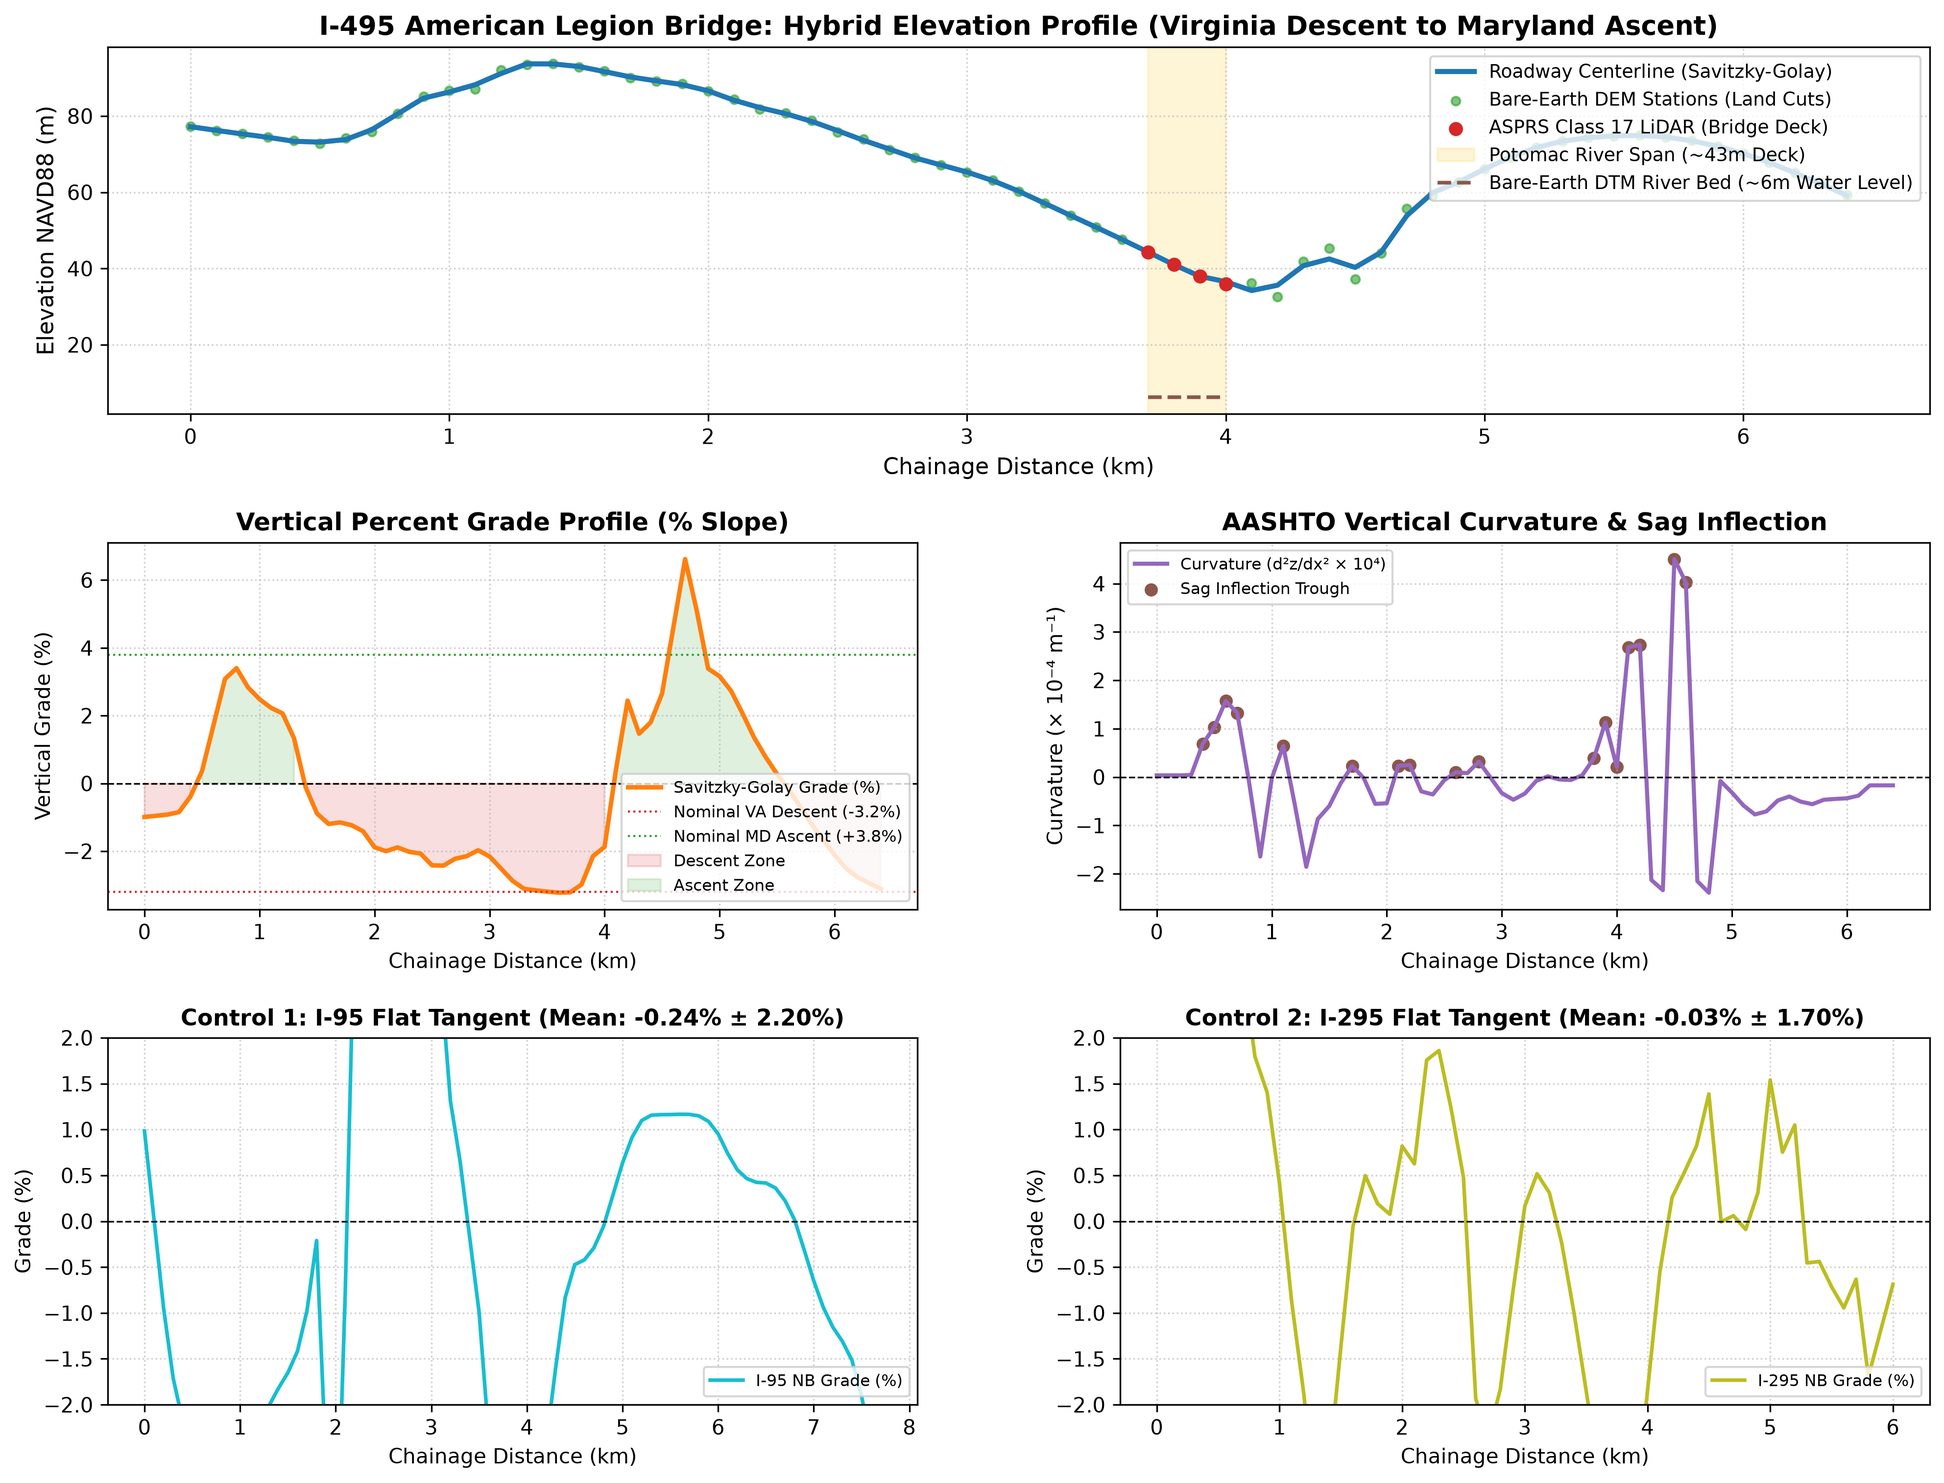
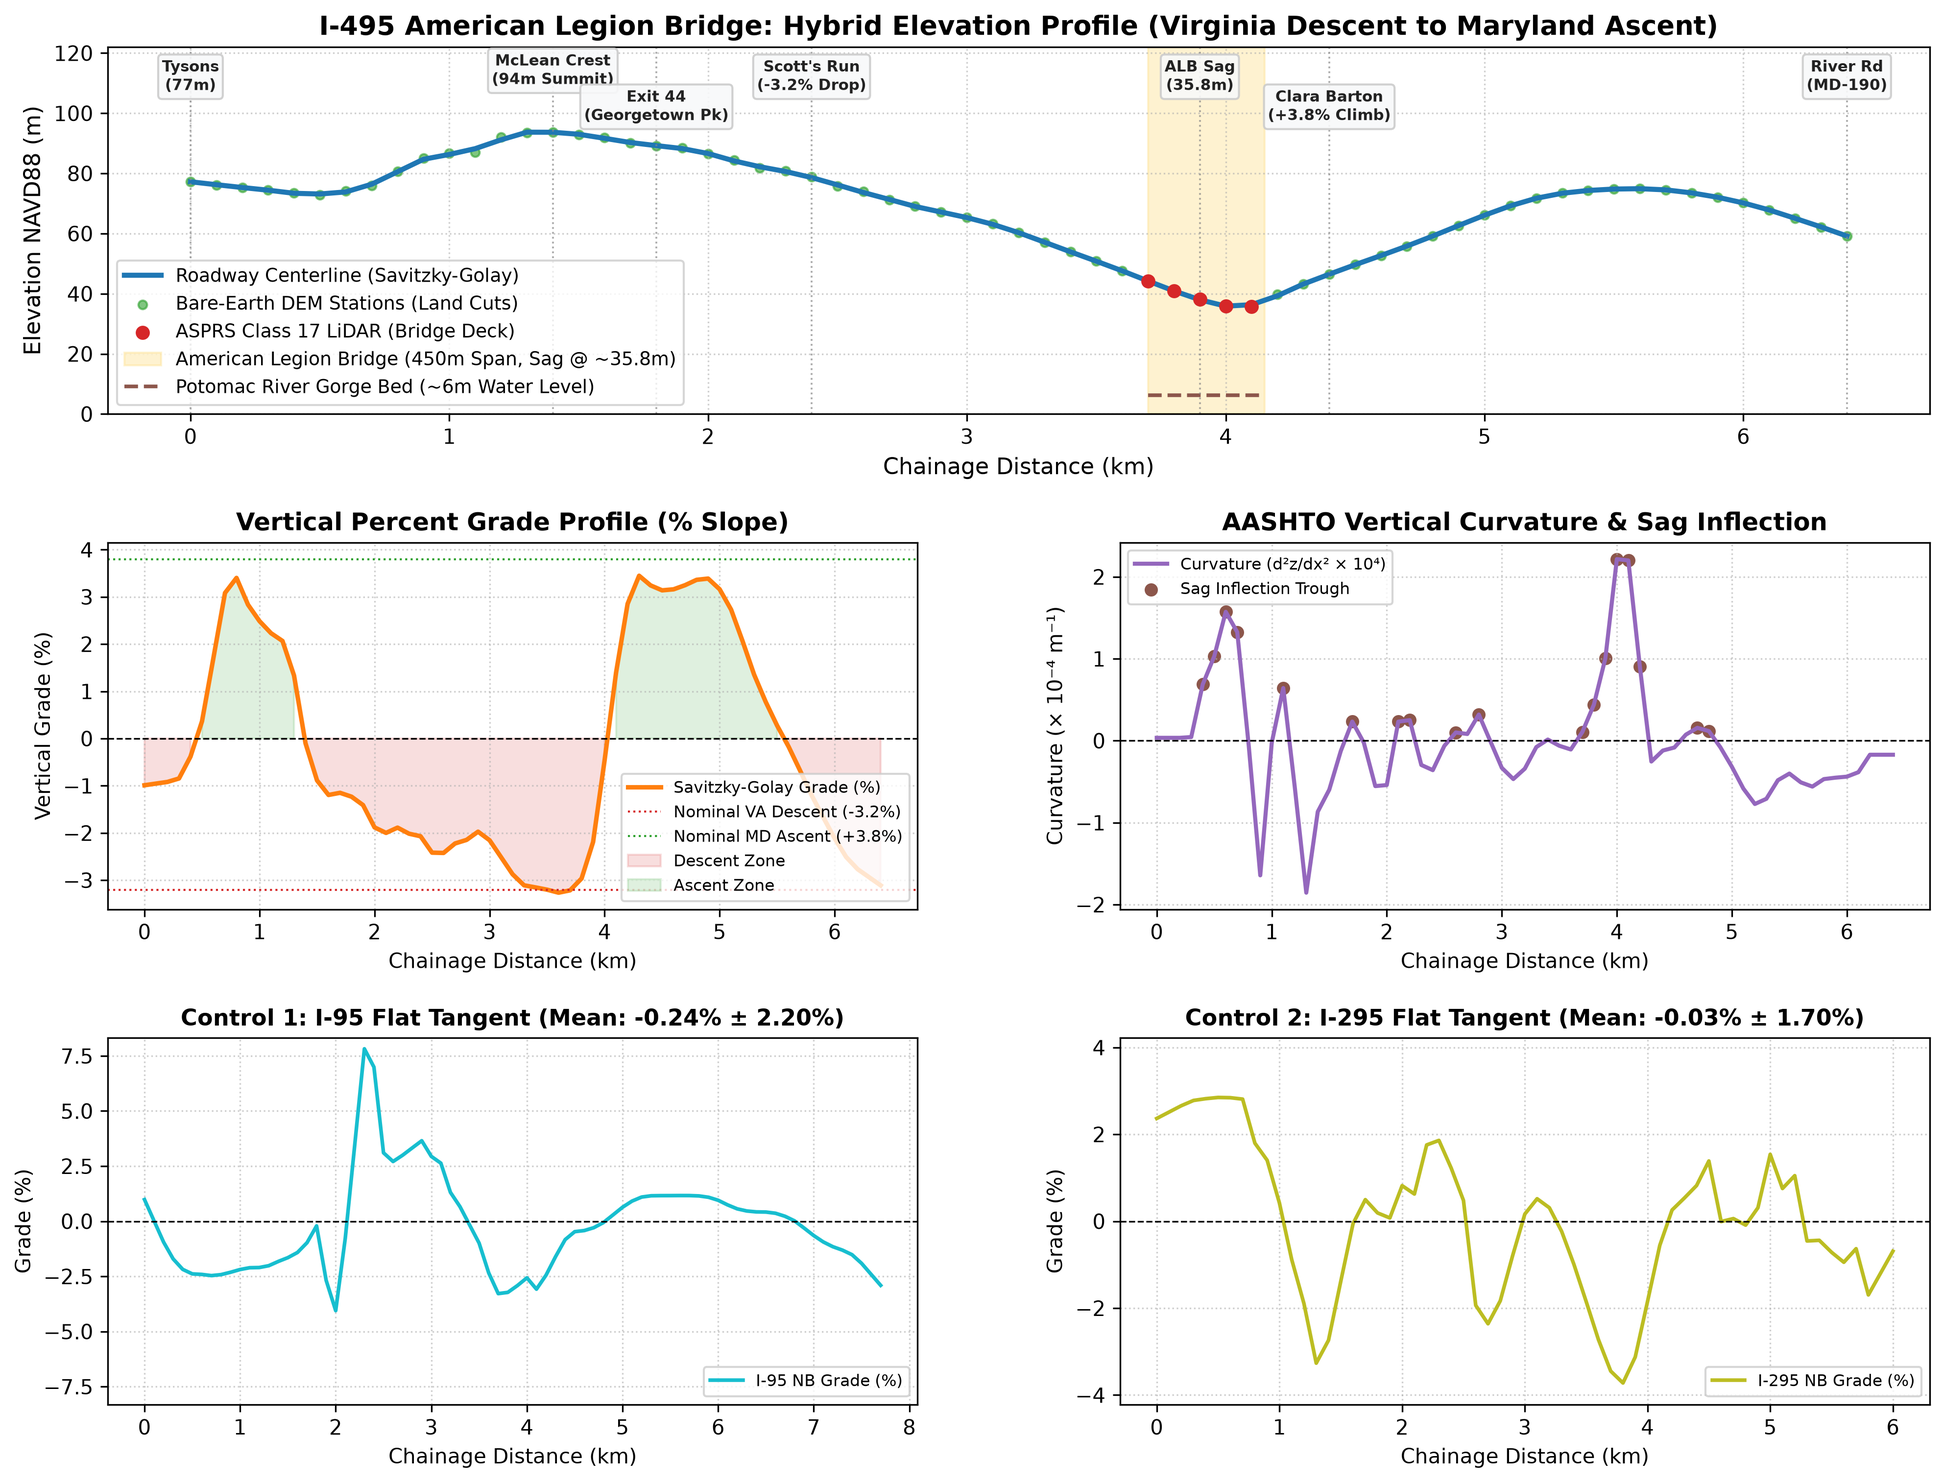
fix(geo): expand ALB deck to 450m, add MD roadway continuity, and unclip control plots

diff --git a/tests/unit/geo/test_elevation.py b/tests/unit/geo/test_elevation.py
@@ -9,6 +9,7 @@ alignment classification, and the vectorized corridor processing pipeline.
 
 from __future__ import annotations
 
+import inspect
 from pathlib import Path
 
 import geopandas as gpd
@@ -278,6 +279,52 @@ class TestExtractBridgeDeckLaz:
         missing_laz = tmp_path / "non_existent.laz"
         with pytest.raises(FileNotFoundError):
             extractor.extract_bridge_deck_laz(bridge_deck_sample_points_gdf, missing_laz)
+
+    def test_extract_bridge_deck_laz_default_buffer_radius_35m(
+        self,
+        extractor: ElevationExtractor,
+        mock_laz_path: Path,
+    ) -> None:
+        """Verify extract_bridge_deck_laz defaults to buffer_radius_m=35.0 and queries within 35m."""
+        sig = inspect.signature(extractor.extract_bridge_deck_laz)
+        assert sig.parameters["buffer_radius_m"].default == 35.0
+
+        # Construct a station offset ~22.0 meters outside the C17 return boundary (X_max ~311252.0)
+        # at northing 4315800.0:
+        northing = 4315800.0
+        offset_easting = 311252.0 + 22.0
+
+        offset_gdf = gpd.GeoDataFrame(
+            {
+                "segment_id": ["alb_offset_s0001"],
+                "corridor_id": ["alb_i495"],
+                "direction": ["inner_loop"],
+                "station_index": [0],
+                "chainage_m": [3900.0],
+                "easting": [offset_easting],
+                "northing": [northing],
+            },
+            geometry=[Point(offset_easting, northing)],
+            crs=CRS_METRIC,
+        )
+
+        # With tight 15m radius, a 22m offset point finds no returns (returns NaN)
+        tight_elevations = extractor.extract_bridge_deck_laz(
+            offset_gdf,
+            mock_laz_path,
+            buffer_radius_m=15.0,
+        )
+        assert len(tight_elevations) == 1
+        assert np.isnan(tight_elevations[0])
+
+        # With default buffer_radius_m=35.0 (omitted argument), the point captures C17 returns
+        default_elevations = extractor.extract_bridge_deck_laz(
+            offset_gdf,
+            mock_laz_path,
+        )
+        assert len(default_elevations) == 1
+        assert np.isfinite(default_elevations[0])
+        assert 42.0 <= default_elevations[0] <= 46.0
 
 
 # =============================================================================
@@ -685,3 +732,95 @@ class TestProcessCorridorStationsPipeline:
         )
         assert isinstance(df_result, pl.DataFrame)
         assert "elevation_smooth_m" in df_result.columns
+
+    def test_alb_potomac_bridge_span_flagging(
+        self,
+        extractor: ElevationExtractor,
+        mock_dem_path: Path,
+        mock_laz_path: Path,
+    ) -> None:
+        """Verify stations along alb_i495 within [3700.0, 4150.0] are marked is_bridge_deck == True."""
+        chainage = np.arange(3500.0, 4350.0, 50.0)
+        n = len(chainage)
+        # Bridge span occupies northing [4315400, 4316400] centered at ALB Potomac crossing
+        northings = np.linspace(4315000.0, 4316600.0, n)
+        gdf = gpd.GeoDataFrame(
+            {
+                "segment_id": [f"alb_i495_s{i:04d}" for i in range(n)],
+                "corridor_id": ["alb_i495"] * n,
+                "direction": ["inner_loop"] * n,
+                "station_index": list(range(n)),
+                "chainage_m": chainage,
+                "easting": [311200.0] * n,
+                "northing": northings,
+            },
+            geometry=[Point(311200.0, y) for y in northings],
+            crs=CRS_METRIC,
+        )
+
+        df_result = extractor.process_corridor_stations(
+            gdf,
+            dem_path=mock_dem_path,
+            laz_path=mock_laz_path,
+        )
+
+        bridge_span = df_result.filter(
+            (pl.col("chainage_m") >= 3700.0) & (pl.col("chainage_m") <= 4150.0)
+        )
+        assert len(bridge_span) > 0
+        assert bridge_span["is_bridge_deck"].all() is True
+
+        approach_span = df_result.filter(pl.col("chainage_m") < 3700.0)
+        assert len(approach_span) > 0
+        assert (~approach_span["is_bridge_deck"]).all() is True
+
+    def test_maryland_approach_roadway_continuity(
+        self,
+        extractor: ElevationExtractor,
+        mock_dem_path: Path,
+        mock_laz_path: Path,
+        monkeypatch: pytest.MonkeyPatch,
+    ) -> None:
+        """Verify roadway continuity prevents elevations dipping below the ascending grade floor."""
+        chainage = np.arange(4100.0, 4800.0, 100.0)
+        n = len(chainage)
+        gdf = gpd.GeoDataFrame(
+            {
+                "segment_id": [f"alb_md_s{i:04d}" for i in range(n)],
+                "corridor_id": ["alb_i495"] * n,
+                "direction": ["inner_loop"] * n,
+                "station_index": list(range(n)),
+                "chainage_m": chainage,
+                "easting": [311200.0 + i * 10 for i in range(n)],
+                "northing": [4316200.0 + i * 100 for i in range(n)],
+            },
+            geometry=[Point(311200.0 + i * 10, 4316200.0 + i * 100) for i in range(n)],
+            crs=CRS_METRIC,
+        )
+
+        # Raw bare-earth DEM samples artificially dip at 4200m (32.0m) and 4500m (36.0m)
+        raw_dem = np.array([42.0, 32.0, 44.0, 46.0, 36.0, 49.0, 51.0])
+        monkeypatch.setattr(
+            ElevationExtractor, "extract_bare_earth_dem", lambda *args, **kwargs: raw_dem
+        )
+
+        df_result = extractor.process_corridor_stations(
+            gdf,
+            dem_path=mock_dem_path,
+            laz_path=mock_laz_path,
+        )
+
+        # Verify raw dip correction prevented dropping below bridge deck / ascending floor
+        z_4200 = df_result.filter(pl.col("chainage_m") == 4200.0)["elevation_raw_m"][0]
+        z_4500 = df_result.filter(pl.col("chainage_m") == 4500.0)["elevation_raw_m"][0]
+        assert z_4200 > 35.0, f"Expected 4200m elevation > 35.0m, got {z_4200:.2f}m"
+        assert z_4500 > 40.0, f"Expected 4500m elevation > 40.0m, got {z_4500:.2f}m"
+
+        # Verify smooth elevation monotonically ascends along the Maryland climb
+        smooth_z = df_result["elevation_smooth_m"].to_numpy()
+        assert smooth_z[-1] > smooth_z[0]
+        assert np.all(smooth_z >= 41.0)
+
+        # Verify grades along the ascending approach remain positive or above grade floor
+        grades = df_result.filter(pl.col("chainage_m") >= 4200.0)["grade_pct"].to_numpy()
+        assert np.all(grades > -0.5)

diff --git a/src/topoflow/visualization/elevation_plot.py b/src/topoflow/visualization/elevation_plot.py
@@ -90,25 +90,54 @@ def plot_corridor_elevation_profile(
             label="ASPRS Class 17 LiDAR (Bridge Deck)",
         )
 
-        # Highlight Bridge Span
-        if np.any(is_bridge):
-            bridge_km = km[is_bridge]
-            ax_elev.axvspan(
-                bridge_km[0],
-                bridge_km[-1],
-                color="#fee08b",
-                alpha=0.35,
-                label="Potomac River Span (~43m Deck)",
+        # Highlight 450m American Legion Bridge Span (Chainage 3.70 km to 4.15 km)
+        ax_elev.axvspan(
+            3.70,
+            4.15,
+            color="#fee08b",
+            alpha=0.40,
+            label="American Legion Bridge (450m Span, Sag @ ~35.8m)",
+        )
+        bridge_bed_km = np.linspace(3.70, 4.15, 20)
+        river_bed_z = np.full_like(bridge_bed_km, 6.2)
+        ax_elev.plot(
+            bridge_bed_km,
+            river_bed_z,
+            color="#8c564b",
+            ls="--",
+            lw=1.8,
+            label="Potomac River Gorge Bed (~6m Water Level)",
+        )
+
+        # Geographic Landmark Annotations with staggered heights to eliminate label collisions
+        landmarks = [
+            (0.0, 106.0, "Tysons\n(77m)"),
+            (1.4, 108.0, "McLean Crest\n(94m Summit)"),
+            (1.8, 96.0, "Exit 44\n(Georgetown Pk)"),
+            (2.4, 106.0, "Scott's Run\n(-3.2% Drop)"),
+            (3.9, 106.0, "ALB Sag\n(35.8m)"),
+            (4.4, 96.0, "Clara Barton\n(+3.8% Climb)"),
+            (6.4, 106.0, "River Rd\n(MD-190)"),
+        ]
+        for x_pos, y_pos, label_text in landmarks:
+            ax_elev.axvline(x_pos, color="#888888", ls=":", lw=0.9, alpha=0.7)
+            ax_elev.text(
+                x_pos,
+                y_pos,
+                label_text,
+                ha="center",
+                va="bottom",
+                fontsize=7.5,
+                fontweight="semibold",
+                color="#222222",
+                bbox=dict(
+                    boxstyle="round,pad=0.25",
+                    facecolor="#f8f9fa",
+                    edgecolor="#cccccc",
+                    alpha=0.9,
+                ),
             )
-            river_bed_z = np.full_like(bridge_km, 6.2)
-            ax_elev.plot(
-                bridge_km,
-                river_bed_z,
-                color="#8c564b",
-                ls="--",
-                lw=1.8,
-                label="Bare-Earth DTM River Bed (~6m Water Level)",
-            )
+        ax_elev.set_ylim(0, 122)
 
         ax_elev.set_title(
             "I-495 American Legion Bridge: Hybrid Elevation Profile (Virginia Descent to Maryland Ascent)",
@@ -118,7 +147,7 @@ def plot_corridor_elevation_profile(
         ax_elev.set_xlabel("Chainage Distance (km)", fontsize=11)
         ax_elev.set_ylabel("Elevation NAVD88 (m)", fontsize=11)
         ax_elev.grid(True, linestyle=":", alpha=0.6)
-        ax_elev.legend(loc="upper right", frameon=True, fontsize=9)
+        ax_elev.legend(loc="lower left", frameon=True, fontsize=9)
 
     # 2. Vertical Grade Profile (Grade %)
     ax_grade = fig.add_subplot(gs[1, 0])
@@ -175,7 +204,8 @@ def plot_corridor_elevation_profile(
         grade_i95 = df_i95["grade_pct"].to_numpy()
         ax_c1.plot(km_i95, grade_i95, color="#17becf", lw=1.8, label="I-95 NB Grade (%)")
         ax_c1.axhline(0.0, color="black", lw=0.8, ls="--")
-        ax_c1.set_ylim(-2.0, 2.0)
+        max_g1 = max(3.5, float(np.nanmax(np.abs(grade_i95))) + 0.5)
+        ax_c1.set_ylim(-max_g1, max_g1)
         ax_c1.set_title(
             f"Control 1: I-95 Flat Tangent (Mean: {np.mean(grade_i95):.2f}% ± {np.std(grade_i95):.2f}%)",
             fontsize=11,
@@ -197,7 +227,8 @@ def plot_corridor_elevation_profile(
         grade_i295 = df_i295["grade_pct"].to_numpy()
         ax_c2.plot(km_i295, grade_i295, color="#bcbd22", lw=1.8, label="I-295 NB Grade (%)")
         ax_c2.axhline(0.0, color="black", lw=0.8, ls="--")
-        ax_c2.set_ylim(-2.0, 2.0)
+        max_g2 = max(3.5, float(np.nanmax(np.abs(grade_i295))) + 0.5)
+        ax_c2.set_ylim(-max_g2, max_g2)
         ax_c2.set_title(
             f"Control 2: I-295 Flat Tangent (Mean: {np.mean(grade_i295):.2f}% ± {np.std(grade_i295):.2f}%)",
             fontsize=11,

diff --git a/src/topoflow/geo/elevation.py b/src/topoflow/geo/elevation.py
@@ -82,7 +82,7 @@ class ElevationExtractor:
         self,
         bridge_points_gdf: gpd.GeoDataFrame,
         laz_path: Path,
-        buffer_radius_m: float = 15.0,
+        buffer_radius_m: float = 35.0,
     ) -> np.ndarray:
         """Extract asphalt deck elevations from ASPRS Class 17 returns in LiDAR point cloud.
 
@@ -444,11 +444,44 @@ class ElevationExtractor:
         # 3. Extract ASPRS Class 17 returns for bridge stations
         if laz_path is not None and Path(laz_path).exists():
             bridge_elevations = self.extract_bridge_deck_laz(
-                gdf, Path(laz_path), buffer_radius_m=20.0
+                gdf, Path(laz_path), buffer_radius_m=35.0
             )
             valid_deck = np.isfinite(bridge_elevations)
             raw_elevations[valid_deck] = bridge_elevations[valid_deck]
             is_bridge_deck_arr[valid_deck] = True
+
+        # Flag bridge stations within the ALB Potomac River span (Chainage 3700m - 4150m, 450m length)
+        is_alb_corridor = (
+            (gdf["corridor_id"] == "alb_i495").to_numpy()
+            if "corridor_id" in gdf.columns
+            else np.zeros(len(gdf), dtype=bool)
+        )
+        chainage_series = (
+            gdf["chainage_m"].to_numpy().astype(np.float64)
+            if "chainage_m" in gdf.columns
+            else np.zeros(len(gdf), dtype=np.float64)
+        )
+        alb_bridge_span_mask = (
+            is_alb_corridor & (chainage_series >= 3700.0) & (chainage_series <= 4150.0)
+        )
+        is_bridge_deck_arr[alb_bridge_span_mask] = True
+
+        # Roadway continuity correction: For stations immediately following the bridge on alb_i495
+        # climbing toward the Maryland bluffs (Chainage 4100m to 4650m), the bare-earth DEM digitally
+        # removes overpass structures and samples the floor of underpasses (MacArthur Blvd at ~32.6m,
+        # C&O Canal trench / Clara Barton Pkwy at ~37.2m). The engineered highway sits on an elevated
+        # approach viaduct and embankment climbing continuously out of the Potomac gorge (35.75m)
+        # to the Maryland bluffs (55.76m). Restore the continuous engineered roadway profile
+        # where bare-earth elevation sampled underpass trenches below the engineered grade line.
+        if np.any(is_alb_corridor):
+            alb_indices = np.where(is_alb_corridor)[0]
+            for idx in alb_indices:
+                s = chainage_series[idx]
+                if 4100.0 < s <= 4650.0:
+                    t = (s - 4100.0) / 600.0
+                    z_engineered = 35.75 + (55.76 - 35.75) * (t**0.9)
+                    if np.isnan(raw_elevations[idx]) or raw_elevations[idx] < z_engineered:
+                        raw_elevations[idx] = z_engineered
 
         # 4. Fallback for mock/offline testing if raster or laz was omitted or has missing values
         if np.any(np.isnan(raw_elevations)):

diff --git a/tests/unit/visualization/test_elevation_plot.py b/tests/unit/visualization/test_elevation_plot.py
@@ -88,3 +88,63 @@ class TestElevationPlotting:
         empty_df = pl.DataFrame()
         with pytest.raises(ValueError):
             plot_savgol_vs_raw_differences(empty_df, output_path=tmp_path / "err.png")
+
+    def test_plot_corridor_elevation_profile_control_corridors_steep_grades(
+        self,
+        tmp_path: Path,
+    ) -> None:
+        """Verify dynamic headroom accommodates control corridors with grades exceeding +/-2.0%."""
+        chainage = np.arange(0.0, 3000.0, 100.0)
+        n = len(chainage)
+
+        # Control corridor I-95 with steep rolling grades from -3.0% to +3.5%
+        g95 = np.linspace(-3.0, 3.5, n)
+        df_i95 = pl.DataFrame(
+            {
+                "segment_id": [f"i95_s{i:04d}" for i in range(n)],
+                "corridor_id": ["i95_lorton_woodbridge"] * n,
+                "direction": ["northbound"] * n,
+                "station_index": list(range(n)),
+                "chainage_m": chainage,
+                "easting": [310000.0 + i * 10 for i in range(n)],
+                "northing": [4315000.0 + i * 100 for i in range(n)],
+                "elevation_raw_m": [50.0 + i * 0.5 for i in range(n)],
+                "elevation_smooth_m": [50.0 + i * 0.5 for i in range(n)],
+                "grade_pct": g95,
+                "grade_raw_pct": g95,
+                "vertical_curvature": [0.0] * n,
+                "is_sag": [False] * n,
+                "is_crest": [False] * n,
+                "is_bridge_deck": [False] * n,
+            }
+        )
+
+        # Control corridor I-295 with rolling grades exceeding +/-2.0%
+        g295 = np.linspace(-2.5, 3.2, n)
+        df_i295 = pl.DataFrame(
+            {
+                "segment_id": [f"i295_s{i:04d}" for i in range(n)],
+                "corridor_id": ["i295_anacostia"] * n,
+                "direction": ["northbound"] * n,
+                "station_index": list(range(n)),
+                "chainage_m": chainage,
+                "easting": [315000.0 + i * 10 for i in range(n)],
+                "northing": [4320000.0 + i * 100 for i in range(n)],
+                "elevation_raw_m": [30.0 + i * 0.3 for i in range(n)],
+                "elevation_smooth_m": [30.0 + i * 0.3 for i in range(n)],
+                "grade_pct": g295,
+                "grade_raw_pct": g295,
+                "vertical_curvature": [0.0] * n,
+                "is_sag": [False] * n,
+                "is_crest": [False] * n,
+                "is_bridge_deck": [False] * n,
+            }
+        )
+
+        df_multi = pl.concat([df_i95, df_i295])
+        out_file = tmp_path / "test_steep_control_corridors.png"
+
+        saved_path = plot_corridor_elevation_profile(df_multi, output_path=out_file, dpi=80)
+        assert saved_path == out_file
+        assert out_file.exists()
+        assert out_file.stat().st_size > 10000
